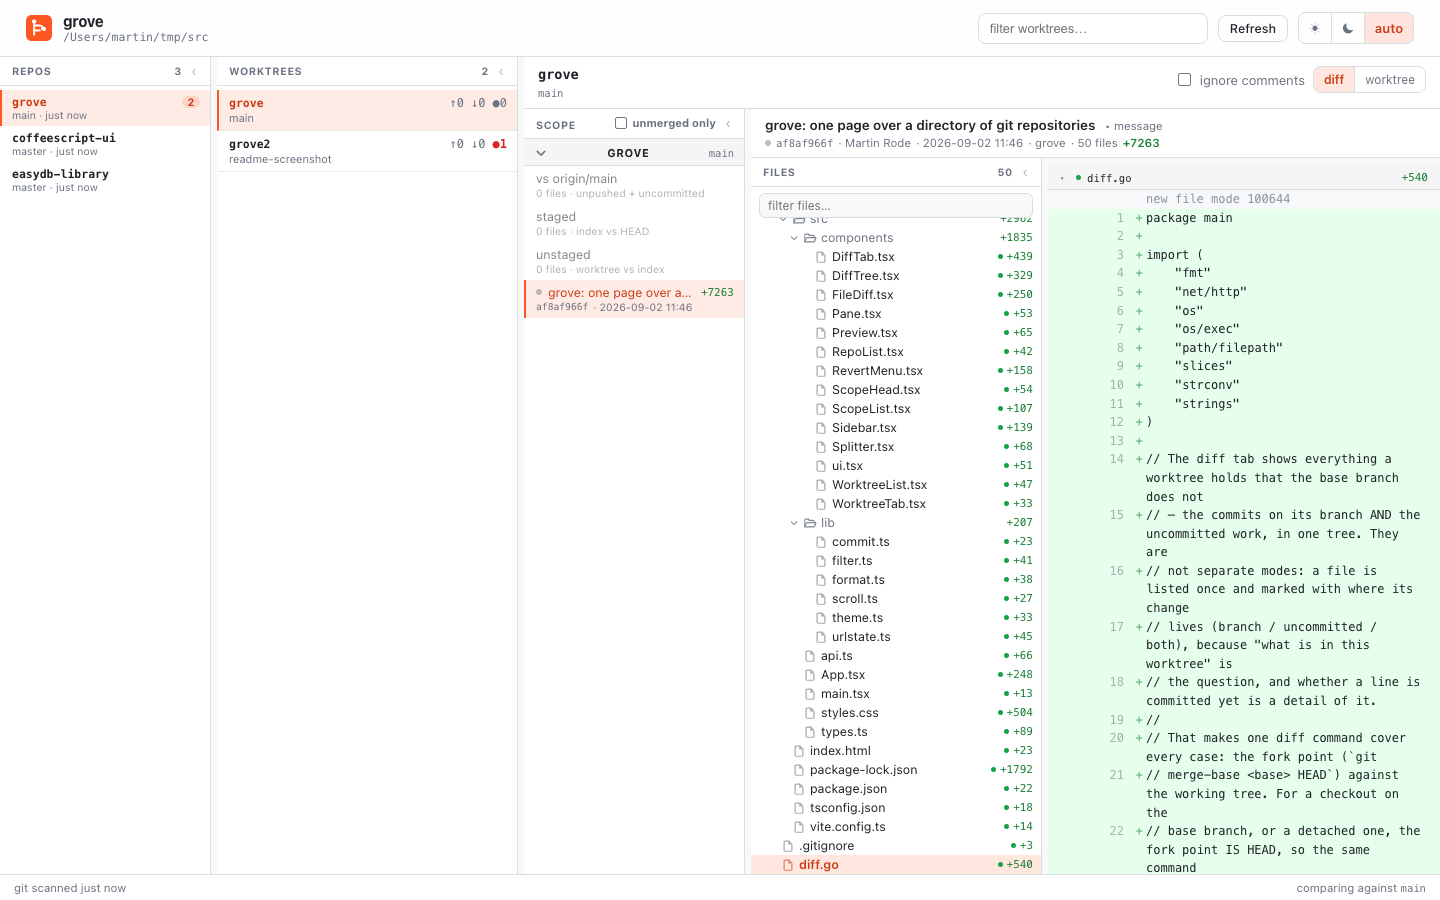
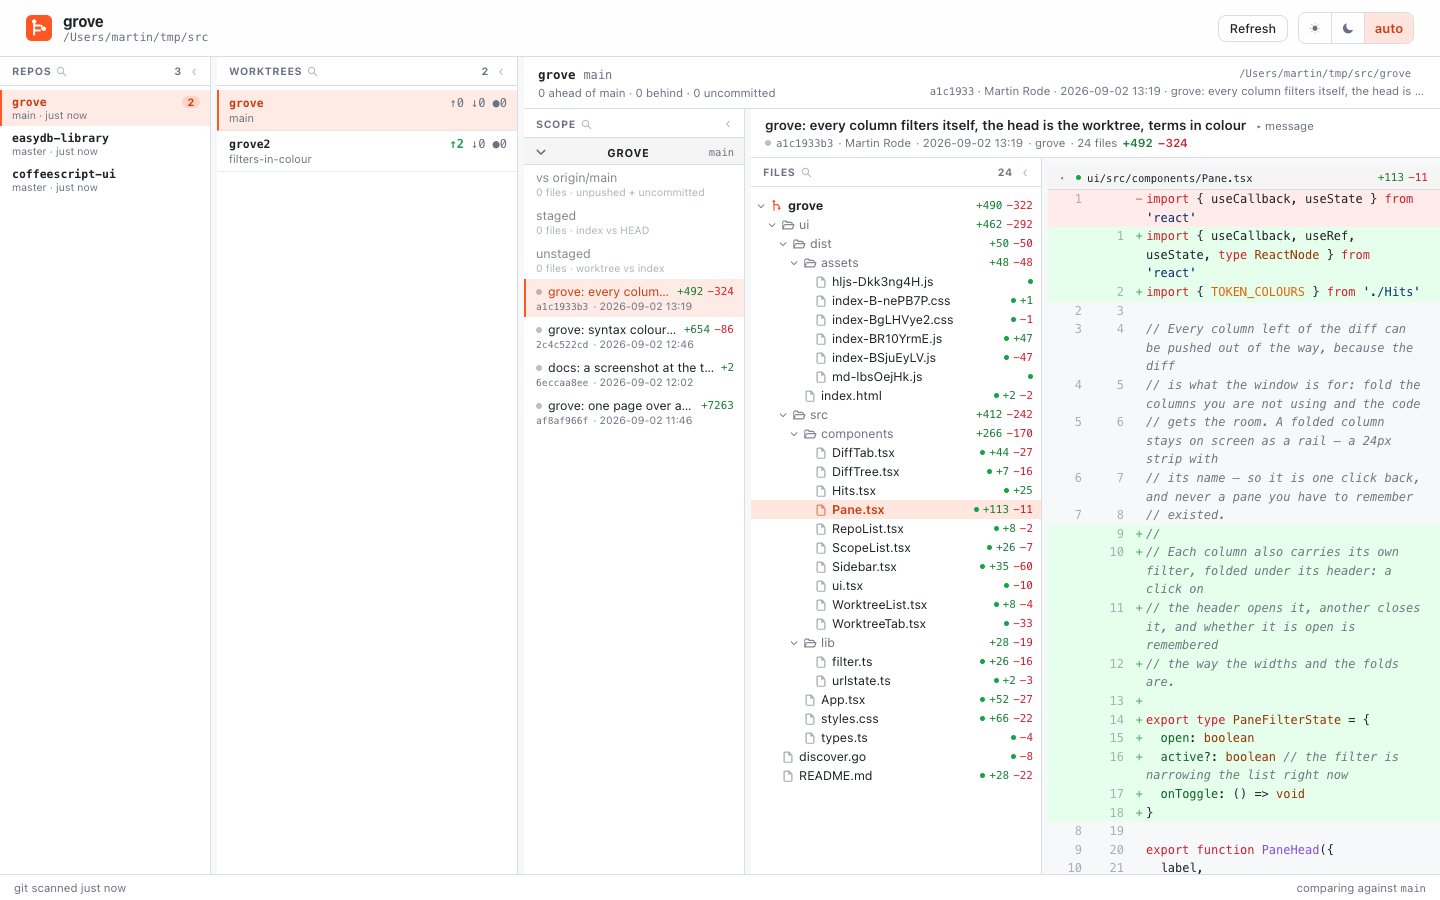
docs: screenshots of the scope column, the filters and the rendered markdown
Four pictures where the words were doing all the work: the three panes over a coloured diff at the top, the scope column with a branch that is two commits ahead — one pushed, one not, the rest history — next to the dot table, two open filters with their terms in colour, and a README rendered before and after.

diff --git a/README.md b/README.md
@@ -119,6 +119,8 @@ next to the sha:
 | blue, `not in <base>` | pushed, but the base branch does not have it: the branch you are still working on, told apart from the history it sits on |
 | grey | it has landed in the base branch and is just history now |
 
+![the scope column: a branch two commits ahead, one of them pushed, one not, the rest history](docs/scope.png)
+
 Merged-ness is `git cherry <base> HEAD`, not ancestry: landing work
 elsewhere rewrites shas, and a commit cherry-picked or rebased onto the base
 keeps its patch while losing its identity — ancestry would call it unmerged
@@ -184,7 +186,11 @@ name, branch and last subject, the scope column by subject, sha and
 author (and it holds the two switches above), the files column by path. Each is
 a filter, not a search: it narrows the list already on screen, so it answers as
 fast as you can type and never changes what the scope holds. Closing a filter
-clears its text; the switches keep their setting. The query is whitespace-separated
+clears its text; the switches keep their setting.
+
+![two filters open: "main" on the worktrees, "ui list" on the files, each term in its colour](docs/filters.png)
+
+The query is whitespace-separated
 terms, all of which must match, in any order, case-insensitively, anywhere in
 the path — order-independent because a path is remembered in pieces, and
 `yml workflows` is the same thought as `workflows release`. Matching the whole
@@ -245,6 +251,8 @@ endpoint. A relative image resolves through the blob endpoint at the pane's
 own side, so a screenshot the change added shows on the right and not on the
 left. The last choice is the default for the next file; a file switched on its
 own keeps its choice for the session.
+
+![a README rendered before and after, side by side](docs/markdown.png)
 
 The same marker heads the diff itself. One git command covers every range
 case: the fork point (`git merge-base <base> HEAD`) against the working tree —
